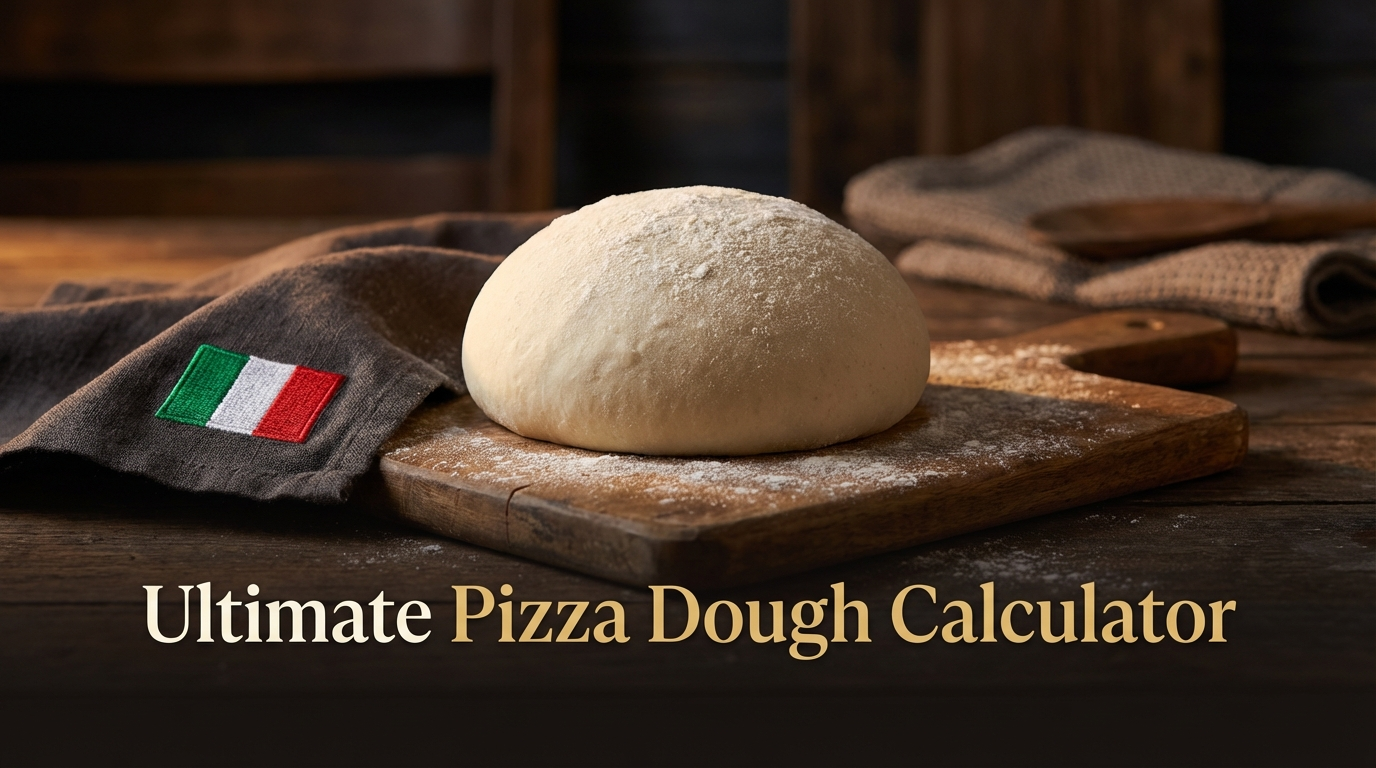
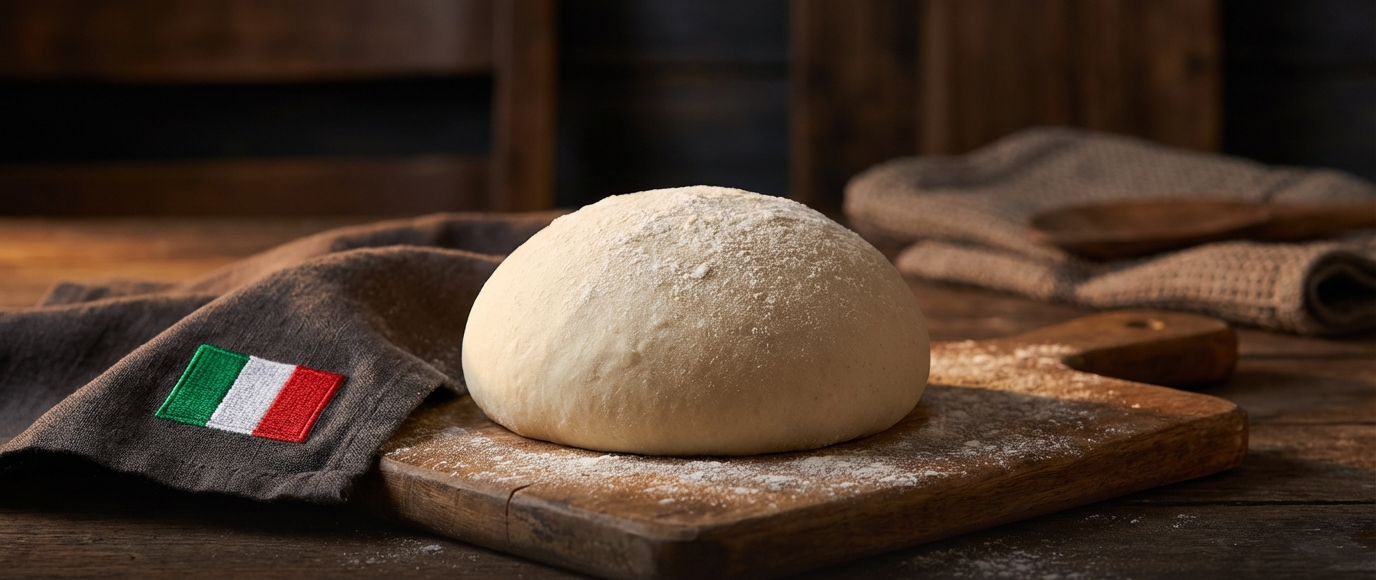
Enhance app visuals with updated hero image layout and add new image assets

diff --git a/src/App.tsx b/src/App.tsx
@@ -70,18 +70,48 @@ const AppContent: React.FC = () => {
         <AppContainer>
             <Header>
               <HeaderRow>
-                <div style={{ display: 'flex', flexDirection: 'column', alignItems: 'center', width: '100%' }}>
-                  <img
-                    src={heroDough}
-                    alt={t('app.title')}
-                    style={{
-                      width: '100%',
-                      maxWidth: '500px',
-                      height: 'auto',
-                      borderRadius: '12px',
-                      objectFit: 'cover'
-                    }}
-                  />
+                <div style={{
+                  position: 'relative',
+                  display: 'flex',
+                  flexDirection: 'column',
+                  alignItems: 'center',
+                  width: '100%'
+                }}>
+                  <div style={{ position: 'relative', width: '100%', maxWidth: '500px' }}>
+                    <img
+                      src={heroDough}
+                      alt={t('app.title')}
+                      style={{
+                        width: '100%',
+                        height: 'auto',
+                        borderRadius: '12px',
+                        objectFit: 'cover',
+                        display: 'block'
+                      }}
+                    />
+                    <div style={{
+                      position: 'absolute',
+                      bottom: 0,
+                      left: 0,
+                      right: 0,
+                      padding: '2rem 1rem 1rem',
+                      borderRadius: '0 0 12px 12px',
+                      background: 'linear-gradient(transparent, rgba(0,0,0,0.7))',
+                      textAlign: 'center'
+                    }}>
+                      <h1 style={{
+                        margin: 0,
+                        fontSize: 'clamp(1.5rem, 4vw, 2.2rem)',
+                        fontWeight: 700,
+                        color: '#fff',
+                        textShadow: '0 2px 8px rgba(0,0,0,0.5)',
+                        fontFamily: 'Georgia, "Times New Roman", serif',
+                        letterSpacing: '0.02em'
+                      }}>
+                        {t('app.title')}
+                      </h1>
+                    </div>
+                  </div>
                 </div>
                 <ThemeToggleWrapper>
                   <div style={{ display: 'flex', gap: '0.75rem', alignItems: 'center' }}>
